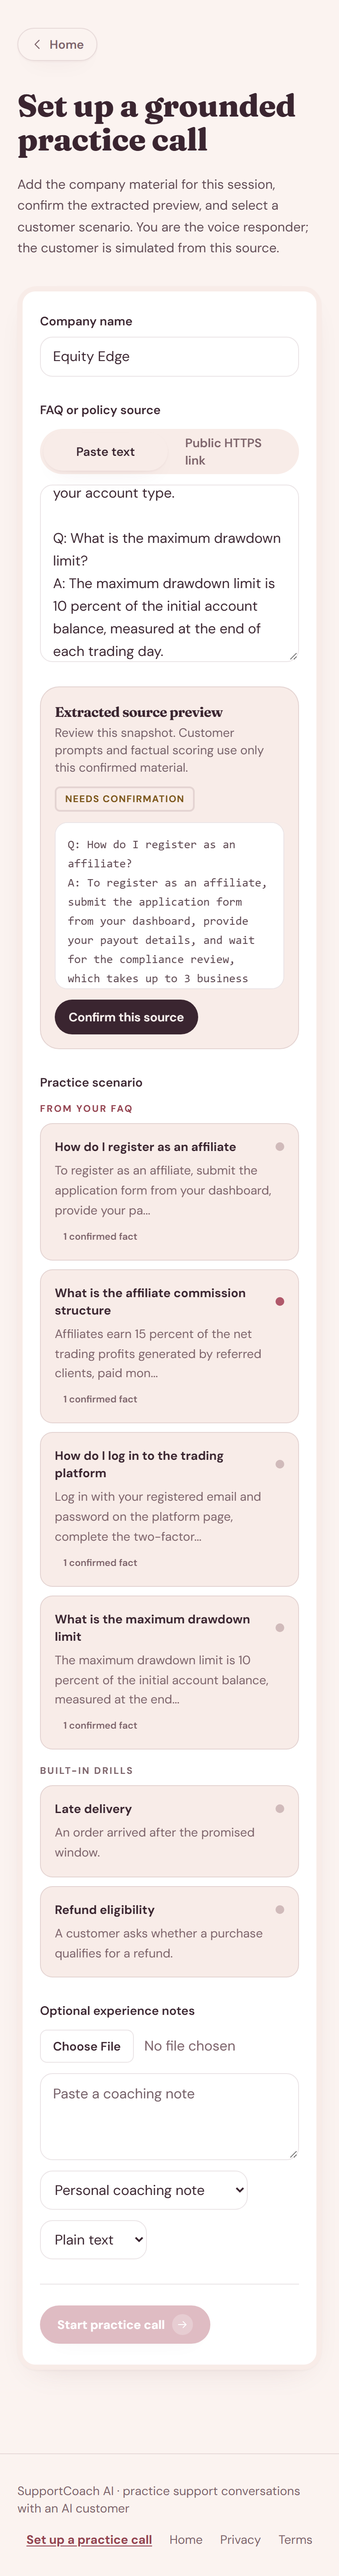
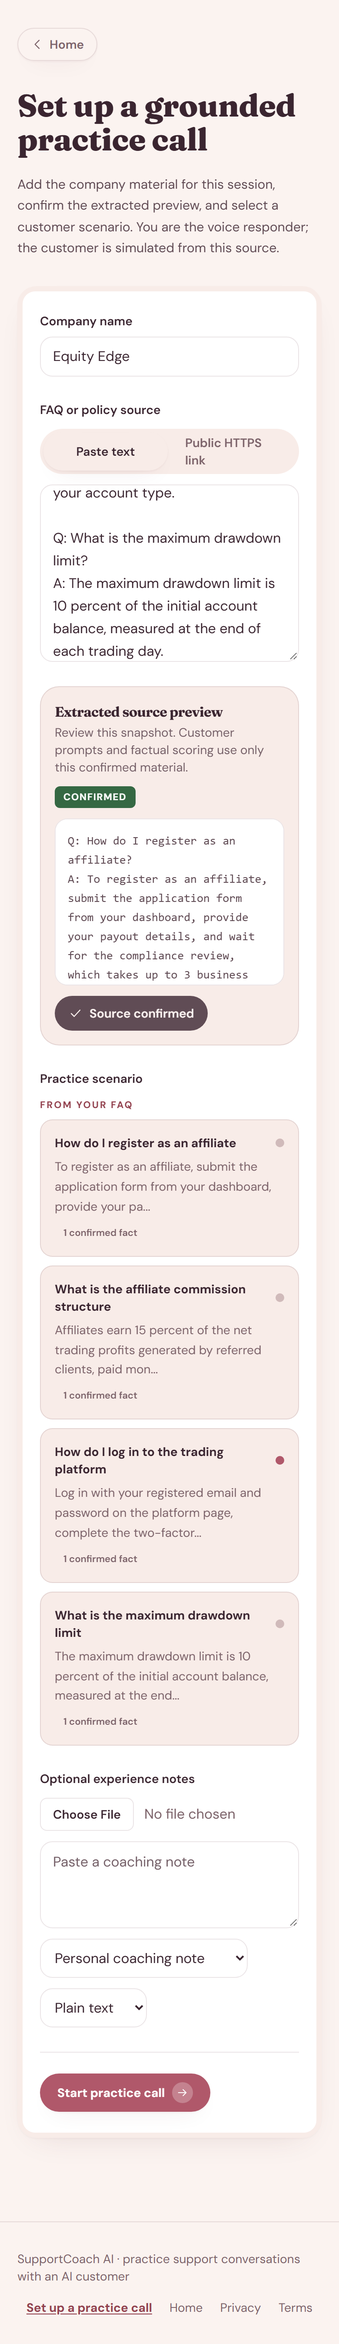
feat: derived-only practice drills + fix suggestions vanishing on selection
Product-lead decisions:
- Remove built-in late-delivery/refund-eligibility drills from setup;
  scenarios always come from the confirmed FAQ's own sections. A confirmed
  source with no complete FAQ sections now gets a clear actionable error
  instead of an unrelated drill; unresolved ids build an honest empty
  placeholder that fails validation. Legacy ids stay valid in validators
  so previously saved sessions restore.
- Fix the video-reported bug: selecting a drill no longer invalidates the
  confirmed source. Clicking a suggested drill after confirming an
  imported link used to reset the source to unconfirmed, dropping its
  snapshot, wiping the facts, and hiding every suggestion.

Verification: lint clean, typecheck clean, 220/220 tests (new gating
test), build succeeded; in-browser check confirms 'Source confirmed'
persists across drill selection, all suggestions remain, and no
built-in drills render.

diff --git a/src/components/scenario-picker.tsx b/src/components/scenario-picker.tsx
@@ -12,11 +12,6 @@ type ScenarioPickerProps = {
   onChange: (value: string) => void;
 };
 
-const builtIn = [
-  { id: "late-delivery", label: "Late delivery", description: "An order arrived after the promised window." },
-  { id: "refund-eligibility", label: "Refund eligibility", description: "A customer asks whether a purchase qualifies for a refund." },
-];
-
 const scenarioTile =
   "block h-full cursor-pointer rounded-xl border border-line bg-panel-2 p-4 text-left transition-all duration-200 ease-[cubic-bezier(0.23,1,0.32,1)] hover:border-accent-bright peer-checked:border-accent peer-focus-visible:ring-2 peer-focus-visible:ring-accent";
 
@@ -25,75 +20,49 @@ const excerptOf = (answer: string): string => {
   return clean.length > 96 ? `${clean.slice(0, 93).trimEnd()}...` : clean;
 };
 
-function ScenarioCard({ id, label, description, meta, checked, onSelect }: {
-  id: string;
-  label: string;
-  description: string;
-  meta?: string;
-  checked: boolean;
-  onSelect: () => void;
-}) {
-  return (
-    <label htmlFor={`scenario-${id}`}>
-      <input
-        type="radio"
-        id={`scenario-${id}`}
-        name="scenario"
-        className="peer sr-only"
-        checked={checked}
-        onChange={onSelect}
-      />
-      <span className={`${scenarioTile} ${checked ? "border-accent" : "border-line"}`}>
-        <span className="flex items-center justify-between gap-3">
-          <span className="text-sm font-bold text-ink">{label}</span>
-          <span aria-hidden="true" className={`lamp inline-block size-2.5 shrink-0 rounded-full ${checked ? "bg-accent" : "bg-line-strong"}`} />
-        </span>
-        <span className="mt-1.5 block text-sm leading-relaxed text-ink-muted">{description}</span>
-        {meta && <span className="mt-2 inline-block rounded-full bg-shell px-2.5 py-0.5 text-[11px] font-semibold text-ink-muted">{meta}</span>}
-      </span>
-    </label>
-  );
-}
-
+// Practice drills come from the confirmed FAQ's own sections, so they always
+// match the source's domain; there are no built-in scenarios anymore.
 export function ScenarioPicker({ facts, derived, value, onChange }: ScenarioPickerProps) {
   const factById = new Map(facts.map((fact) => [fact.id, fact]));
   return (
     <fieldset>
       <legend className={fieldLabel}>Practice scenario</legend>
-      {derived.length > 0 && (
+      {derived.length > 0 ? (
         <>
           <p className="mt-3 text-[11px] font-bold uppercase tracking-[0.14em] text-accent-strong">From your FAQ</p>
           <div className="mt-2 grid gap-2.5">
             {derived.map((scenario) => {
               const primary = factById.get(scenario.factIds[0]);
+              const checked = value === scenario.id;
               return (
-                <ScenarioCard
-                  key={scenario.id}
-                  id={scenario.id}
-                  label={scenario.title}
-                  description={primary ? excerptOf(primary.answer) : scenario.customerPersona}
-                  meta={`${scenario.factIds.length} confirmed fact${scenario.factIds.length === 1 ? "" : "s"}`}
-                  checked={value === scenario.id}
-                  onSelect={() => onChange(scenario.id)}
-                />
+                <label htmlFor={`scenario-${scenario.id}`} key={scenario.id}>
+                  <input
+                    type="radio"
+                    id={`scenario-${scenario.id}`}
+                    name="scenario"
+                    className="peer sr-only"
+                    checked={checked}
+                    onChange={() => onChange(scenario.id)}
+                  />
+                  <span className={`${scenarioTile} ${checked ? "border-accent" : "border-line"}`}>
+                    <span className="flex items-center justify-between gap-3">
+                      <span className="text-sm font-bold text-ink">{scenario.title}</span>
+                      <span aria-hidden="true" className={`lamp inline-block size-2.5 shrink-0 rounded-full ${checked ? "bg-accent" : "bg-line-strong"}`} />
+                    </span>
+                    <span className="mt-1.5 block text-sm leading-relaxed text-ink-muted">{primary ? excerptOf(primary.answer) : scenario.customerPersona}</span>
+                    <span className="mt-2 inline-block rounded-full bg-shell px-2.5 py-0.5 text-[11px] font-semibold text-ink-muted">{scenario.factIds.length} confirmed fact{scenario.factIds.length === 1 ? "" : "s"}</span>
+                  </span>
+                </label>
               );
             })}
           </div>
-          <p className="mt-4 text-[11px] font-bold uppercase tracking-[0.14em] text-ink-muted">Built-in drills</p>
         </>
+      ) : (
+        <p className="mt-3 rounded-xl border border-dashed border-line px-4 py-5 text-sm leading-relaxed text-ink-muted">
+          No practice drills yet. Paste or import FAQ sections with a question and a full answer, and suggested
+          drills appear here.
+        </p>
       )}
-      <div className={`mt-2 grid gap-2.5 ${derived.length > 0 ? "sm:grid-cols-2" : "sm:grid-cols-2"}`}>
-        {builtIn.map((scenario) => (
-          <ScenarioCard
-            key={scenario.id}
-            id={scenario.id}
-            label={scenario.label}
-            description={scenario.description}
-            checked={value === scenario.id}
-            onSelect={() => onChange(scenario.id)}
-          />
-        ))}
-      </div>
     </fieldset>
   );
 }

diff --git a/src/components/source-setup-form.tsx b/src/components/source-setup-form.tsx
@@ -26,7 +26,7 @@ export function SourceSetupForm() {
   const [previewText, setPreviewText] = useState("");
   const [importedSource, setImportedSource] = useState<ImportedSource>();
   const [importing, setImporting] = useState(false);
-  const [scenarioId, setScenarioId] = useState<string>("late-delivery");
+  const [scenarioId, setScenarioId] = useState<string>("");
   const [notes, setNotes] = useState("");
   const [noteKind, setNoteKind] = useState<ExperienceNote["kind"]>("personal-coaching-note");
   const [noteFormat, setNoteFormat] = useState<ExperienceNoteFormat>("plain-text");
@@ -47,16 +47,15 @@ export function SourceSetupForm() {
     scenarioId,
   }), [companyName, confirmed, importedSource, noteFormat, noteKind, notes, scenarioId, sourceKind, sourceValue]);
 
-  // Practice drills suggested by the confirmed content itself; when the
+  // Practice drills are suggested by the confirmed content itself; when the
   // source changes and the selected drill no longer resolves, fall back to
-  // the first suggestion (or the built-in default).
+  // the first suggestion. Selecting a drill never invalidates the source:
+  // for imported links an unconfirmed source carries no snapshot, which
+  // would wipe the facts and hide every suggestion again.
   const derived = useMemo(() => deriveScenarios(context.facts), [context.facts]);
-  const validScenarioIds = useMemo(
-    () => [...derived.map((scenario) => scenario.id), "late-delivery", "refund-eligibility"],
-    [derived],
-  );
+  const validScenarioIds = useMemo(() => derived.map((scenario) => scenario.id), [derived]);
   useEffect(() => {
-    if (!validScenarioIds.includes(scenarioId)) setScenarioId(validScenarioIds[0]);
+    if (validScenarioIds.length > 0 && !validScenarioIds.includes(scenarioId)) setScenarioId(validScenarioIds[0]);
   }, [validScenarioIds, scenarioId]);
 
   const invalidateSetup = () => {
@@ -167,7 +166,7 @@ export function SourceSetupForm() {
         {fieldError("source")}
       </fieldset>
       <SourcePreview sourceText={sourceText} confirmed={confirmed} canConfirm={sourceKind === "pasted-text" || Boolean(importedSource)} onConfirm={() => setConfirmed(true)} />
-      <ScenarioPicker facts={context.facts} derived={derived} value={scenarioId} onChange={(value) => { setScenarioId(value); invalidateSetup(); }} />
+      <ScenarioPicker facts={context.facts} derived={derived} value={scenarioId} onChange={setScenarioId} />
       {fieldError("scenario")}
       <fieldset className="space-y-3">
         <legend className={fieldLabel}>Optional experience notes</legend>

diff --git a/src/domain/validation.ts b/src/domain/validation.ts
@@ -1,5 +1,6 @@
 import { createScenarioDefinition } from "../data/seed-packs";
 import { validatePracticePack, type PracticeScenario, type ScenarioDefinition, type SessionSource } from "./practice-pack";
+import { deriveScenarios } from "./derived-scenarios";
 import {
   createSourceProvenance,
   getSourceText,
@@ -91,7 +92,18 @@ export const validatePracticeContext = ({
     source: context.source,
     scenario: context.scenario.id as PracticeScenario,
   });
-  if (!packValidation.ok) addPracticePackErrors(errors, packValidation.issues);
+  // A confirmed source with no derivable drill gets one clear scenario
+  // error instead of the generic pack message plus a fact-mismatch error.
+  const noPracticeDrills = context.source.confirmation === "confirmed" &&
+    context.sourceText.trim().length > 0 &&
+    deriveScenarios(context.facts).length === 0;
+  const issues = packValidation.ok
+    ? []
+    : packValidation.issues.filter((issue) => !(noPracticeDrills && issue === "Choose a supported practice scenario."));
+  if (issues.length > 0) addPracticePackErrors(errors, issues);
+  if (noPracticeDrills) {
+    addError(errors, "scenario", "This source has no complete FAQ sections to practice yet. Add a question with a full answer and try again.");
+  }
 
   for (const note of context.notes) {
     if (!note.text.trim()) continue;
@@ -122,7 +134,7 @@ export const validatePracticeContext = ({
     seenFactIds.add(fact.id);
   }
 
-  if (context.scenario.factIds.some((factId) => !context.facts.some((fact) => fact.id === factId))) {
+  if (!noPracticeDrills && context.scenario.factIds.some((factId) => !context.facts.some((fact) => fact.id === factId))) {
     addError(errors, "scenario", "The selected scenario refers to a fact that is not available in this source.");
   }
   if (noteFileSizeBytes !== undefined && noteFileSizeBytes > 200 * 1024) {

diff --git a/src/data/seed-packs.ts b/src/data/seed-packs.ts
@@ -38,14 +38,28 @@ export const createScenarioDefinition = (
     const derived = findDerivedScenario(facts, scenarioId);
     if (derived) return derived;
   }
-  const isBuiltin = scenarioId in archetypes;
-  const archetype = isBuiltin ? archetypes[scenarioId as keyof typeof archetypes] : archetypes["late-delivery"];
+  // Legacy ids still resolve so previously stored sessions stay valid.
+  const archetype = archetypes[scenarioId as keyof typeof archetypes];
+  if (!archetype) {
+    // Unresolved selection (empty or stale): an honest placeholder with no
+    // facts, which setup validation rejects instead of silently swapping
+    // in an unrelated drill.
+    return {
+      id: scenarioId,
+      title: "Choose a practice drill",
+      customerPersona: "",
+      openingLine: "",
+      goals: [],
+      factIds: [],
+      difficulty: "beginner",
+    };
+  }
   const relevantFacts = facts.filter((fact) =>
     archetype.terms.some((term) => fact.keywords.includes(term)),
   );
 
   return {
-    id: isBuiltin ? scenarioId : "late-delivery",
+    id: scenarioId,
     title: archetype.title,
     customerPersona: archetype.customerPersona,
     openingLine: archetype.openingLine,

diff --git a/src/domain/validation.test.ts b/src/domain/validation.test.ts
@@ -54,6 +54,22 @@ describe("practice context validation", () => {
     });
   });
 
+  it("requires at least one complete FAQ section before practice can start", () => {
+    const context = normalizePracticeContext({
+      source: { kind: "pasted-text", text: "Reachable support line only.", confirmation: "confirmed" },
+      sourceLabel: "Northstar Shop",
+      notes: [],
+      scenarioId: "",
+    });
+
+    expect(validatePracticeContext({ companyName: "Northstar Shop", context })).toMatchObject({
+      ok: false,
+      errors: {
+        scenario: ["This source has no complete FAQ sections to practice yet. Add a question with a full answer and try again."],
+      },
+    });
+  });
+
   it("rejects malformed and non-HTTPS reference URLs", () => {
     const context = normalizePracticeContext({
       source: { kind: "public-https-link", url: "ftp://example.com/faq", confirmation: "pending" },

diff --git a/HANDOFF.md b/HANDOFF.md
@@ -13,27 +13,19 @@ The outgoing coding model completes this file before moving to another tool. Run
 ## Current Git snapshot
 
 - Branch: `supportcoach-mvp`
-- Current commit: `ca71a34`
-- Generated: 2026-09-18T13:39:02.577Z
+- Current commit: `b37095e`
+- Generated: 2026-09-18T14:26:52.856Z
 - Uncommitted files excluding this handoff: 
 
 ```text
-M CHANGELOG.md
+M .impeccable/review/mobile-setup-derived.png
+ M CHANGELOG.md
  M README.md
  M src/components/scenario-picker.tsx
  M src/components/source-setup-form.tsx
  M src/data/seed-packs.ts
- M src/domain/practice-pack.ts
+ M src/domain/validation.test.ts
  M src/domain/validation.ts
- M src/evaluation/structured-fact-matcher.test.ts
- M src/evaluation/structured-fact-matcher.ts
- M src/evaluation/validation.ts
-?? .impeccable/review/desktop-call-derived.png
-?? .impeccable/review/desktop-setup-derived.png
-?? .impeccable/review/mobile-call-derived.png
-?? .impeccable/review/mobile-setup-derived.png
-?? src/domain/derived-scenarios.test.ts
-?? src/domain/derived-scenarios.ts
 ```
 <!-- GENERATED SNAPSHOT: END -->
 ## Work completed in this handoff
@@ -65,6 +57,8 @@ Follow-up round 3 (2026-09-18, product-lead request): the import body cap was ra
 Follow-up round 4 (2026-09-18, product-lead feedback): imported pages now preserve paragraph structure — the HTML cleaner converts block-level tags to line breaks before extraction, so imports produce per-section reference facts instead of one page-length blob (the root cause of factual accuracy scoring 0 on imports). Next exercise quotes at most 180 characters of the missed-fact answer, and the report clamps the display with a Show-full toggle. Back navigation added (Home on setup/report, Source setup on the call screen), and the session-sheet facts list collapses to three entries with a Show-all toggle.
 
 Follow-up round 5 (2026-09-18, product-lead feedback): the fact matcher's evidence windows no longer start in front of a fact's own subject when a sibling fact uses the same word as a relation (for example "delivery" shared across delivery facts). A trainee answer that states a confirmed fact verbatim is now credited instead of missed; regression test added. Structured FAQ extraction also landed this round (JSON-LD, details/summary, definition lists, heading sections, duplicate removal) with import stats, and a grounded customer question plan now drives both voice modes.
+
+Follow-up round 8 (2026-09-18, product-lead decisions): built-in drills removed from the setup screen — scenarios are now always derived from the confirmed source's own sections; a confirmed source with no complete FAQ sections gets the scenario error "This source has no complete FAQ sections to practice yet. Add a question with a full answer and try again." (validation gating; unresolved ids now build an honest empty-facts placeholder in createScenarioDefinition instead of silently falling back to a legacy archetype). Legacy late-delivery/refund-eligibility ids remain valid in validators so previously saved sessions restore. Bug fix from product-lead video: selecting a drill no longer calls invalidateSetup — clicking a suggested drill after confirming an imported link used to reset the source to unconfirmed, dropping its snapshot, wiping facts, and making every suggestion disappear. Verified in-browser: after confirm + drill click, "Source confirmed" persists and all 4 suggestions remain; built-in drills absent; the derived scenario carries into the call.
 
 Follow-up round 7 (2026-09-18, product-lead approved design): FAQ-derived practice scenarios. Substantive FAQ sections each become a suggested drill under a "From your FAQ" group in the setup picker (persona, natural opening line, the section's facts; related sections group when headings share two-plus significant words; thin/placeholder/contact sections never suggested; capped at six; deterministic content-hashed `derived-*` ids). The two built-in drills remain below as fallbacks. Contract widened: `PracticeScenario` now accepts `derived-*` ids (practice-pack `isSupportedScenarioId`, seed-packs `createScenarioDefinition(string)`, domain + evaluation validators), and the form auto-selects the first suggestion when the source changes. The fact matcher now pools required-term coverage across a fact's own comma-separated clauses within one statement (questions/ambiguity/conflicts never pool), so multi-clause verbatim answers score; regression tests added in derived-scenarios.test.ts and structured-fact-matcher.test.ts.
 

diff --git a/CHANGELOG.md b/CHANGELOG.md
@@ -11,6 +11,11 @@ and this project adheres to [Semantic Versioning](https://semver.org/spec/v2.0.0
 
 - FAQ-derived practice scenarios: after a source is confirmed, substantive FAQ sections each become a suggested drill (persona, natural customer opening line, and the section's confirmed facts, with related sections grouped when their headings share significant words). The setup screen shows them under a "From your FAQ" group above the two built-in drills; picking one grounds the customer's questions and factual scoring in that section. Thin sections, placeholder headings, and site furniture are never suggested, suggestions are capped at six, and ids are content-derived so stored sessions rebuild deterministically.
 - Fact matcher: required terms may now be covered across the fact's own comma-separated clauses within one statement (windows anchored on the fact's relation words pool their tokens), so multi-clause answers like "To register as an affiliate, submit the form..." are credited verbatim; questions, ambiguity, and conflicts still never pool.
+
+### Changed
+
+- Built-in drills removed from the setup screen (product-lead decision): they could mismatch arbitrary imported FAQs. Practice scenarios are now always derived from the confirmed source's own sections; a confirmed source with no complete FAQ sections gets a clear "add a question with a full answer" error instead of starting an unrelated drill. The legacy ids remain valid only so previously saved sessions still restore.
+- Selecting a practice drill no longer invalidates the confirmed source. This fixes the reported bug where clicking a suggested drill after confirming an imported link reset the source to unconfirmed — which dropped its snapshot, wiped the extracted facts, and made every suggestion disappear.
 - Launch-hardening round (2026-09-18, product-lead checklist): privacy policy and terms of use pages, a custom 404 page with calls to action, a site footer with navigation and a persistent "Set up a practice call" CTA, sitemap.xml and robots.txt (API, call, and report excluded from crawling), per-page meta titles and descriptions with Open Graph and Twitter card metadata plus a generated 1200x630 social preview image, a dismissible storage-disclosure notice (the site sets no cookies and runs no cross-site tracking), cookieless Vercel Analytics, Strict-Transport-Security and hardening headers via next.config.mjs, and per-IP rate limiting on the public reference-import (10/min) and voice-token (30/min) endpoints with unit-tested fixed-window limiter and 429 responses.
 - Site-launch audits recorded in `.impeccable/review/`: internal link check (16 references, zero broken), WCAG contrast audit (18 token pairs, all >= 4.5:1), and page-load metrics against the production build (TTFB 7-56ms, first contentful paint 124-432ms, HTML 4-5KB).
 

diff --git a/README.md b/README.md
@@ -50,7 +50,7 @@ The trainee starts each practice session by pasting a company FAQ or policy, or 
 
 The reference importer resolves and validates addresses once, then connects directly to a validated numeric address using Node HTTPS. It retains the original Host header, TLS server name, and certificate hostname check, so a later DNS change cannot redirect the connection. Redirects are refused, and the complete operation has a five-second deadline and a 2 MB body limit; pages over the limit are rejected with their measured size, and the recovery is to paste the FAQ text instead. The address policy conservatively refuses special-use IPv4 ranges and IPv6 outside ordinary global unicast, including mapped and transition addresses. Reproduce these controls with `npm test -- src/app/api/reference-import/route.test.ts`.
 
-The golden demo path is: start in mock voice mode, paste and confirm a practice FAQ (a trading or SaaS FAQ works as well as e-commerce), pick a suggested drill from the "From your FAQ" group (or a built-in drill), allow microphone access, speak to the simulated customer, then review the four-score coaching report. Suggested drills are derived from the confirmed FAQ's own sections, so practice and scoring always match your material's domain.
+The golden demo path is: start in mock voice mode, paste and confirm a practice FAQ (a trading or SaaS FAQ works as well as e-commerce), pick a suggested drill from the "From your FAQ" group, allow microphone access, speak to the simulated customer, then review the four-score coaching report. Drills are always derived from the confirmed FAQ's own sections, so practice and scoring always match your material's domain; the two historical e-commerce drills are no longer offered (they remain valid only for previously saved sessions).
 
 The browser stages the current source snapshot and notes in the existing active-session localStorage key. It saves the completed context, final transcript, and report together under `supportcoach.completed-practice.v1` only after the call ends and evaluation succeeds. Reloading `/report` restores that saved report. **Clear practice data** removes both keys, including source, notes, transcript, and report, while leaving unrelated site data alone. Invalid stored values are discarded; storage failures show a retryable error instead of claiming success.
 
